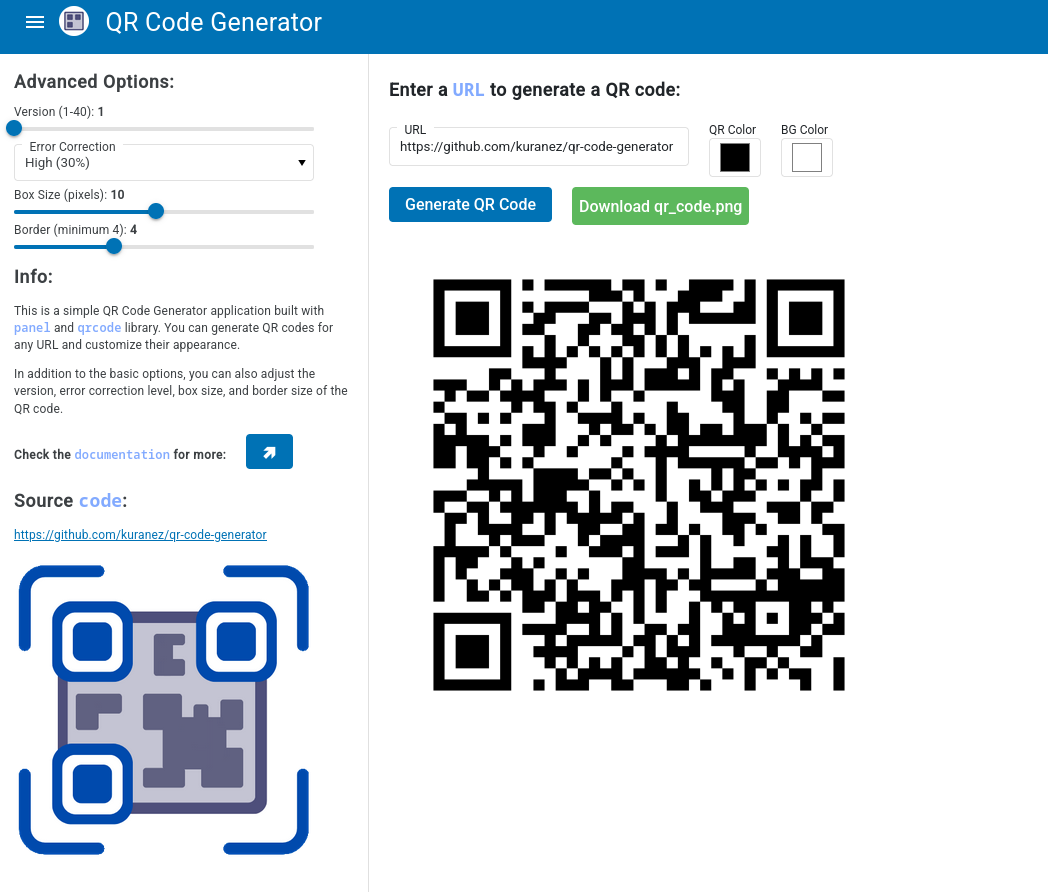
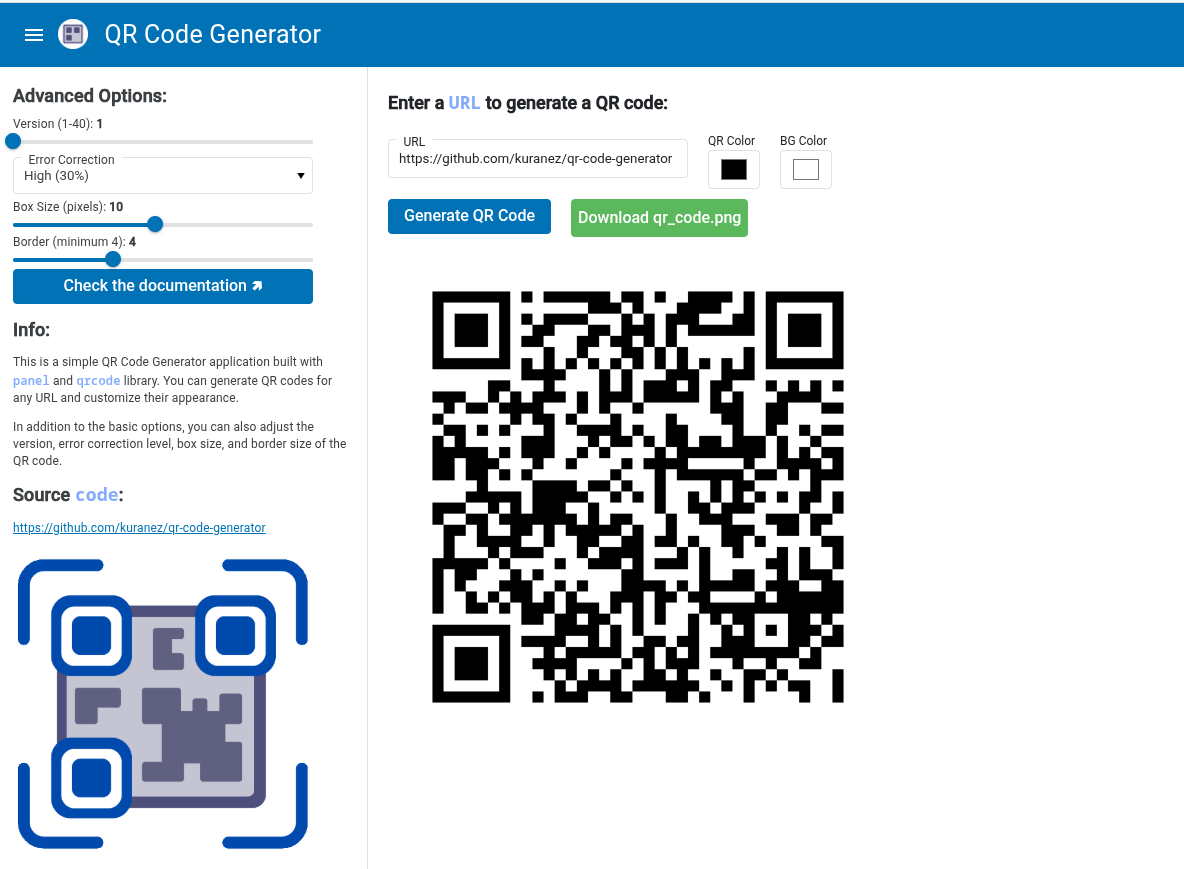
updated screenshot and tweaked doc button layout

Changed region(s): [[0.0, 0.0, 1.0, 0.9942], [0.3664, 0.3107, 0.8244, 0.8078]]

diff --git a/app.py b/app.py
@@ -139,7 +139,8 @@ doc_panel = pn.FloatPanel(
 doc_button = pn.widgets.Button(
     name="Check the documentation 🢅",
     button_type="primary",
-    sizing_mode='stretch_width',
+    # sizing_mode='stretch_width',
+    width=300,
     align='center',
 )
 
